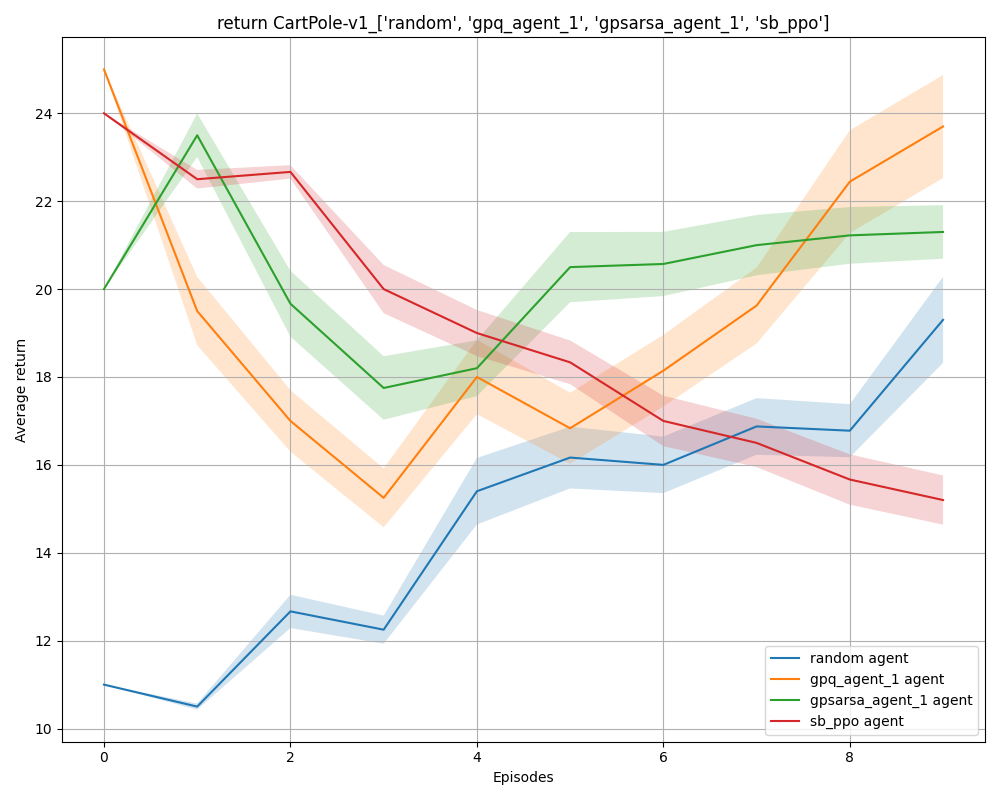
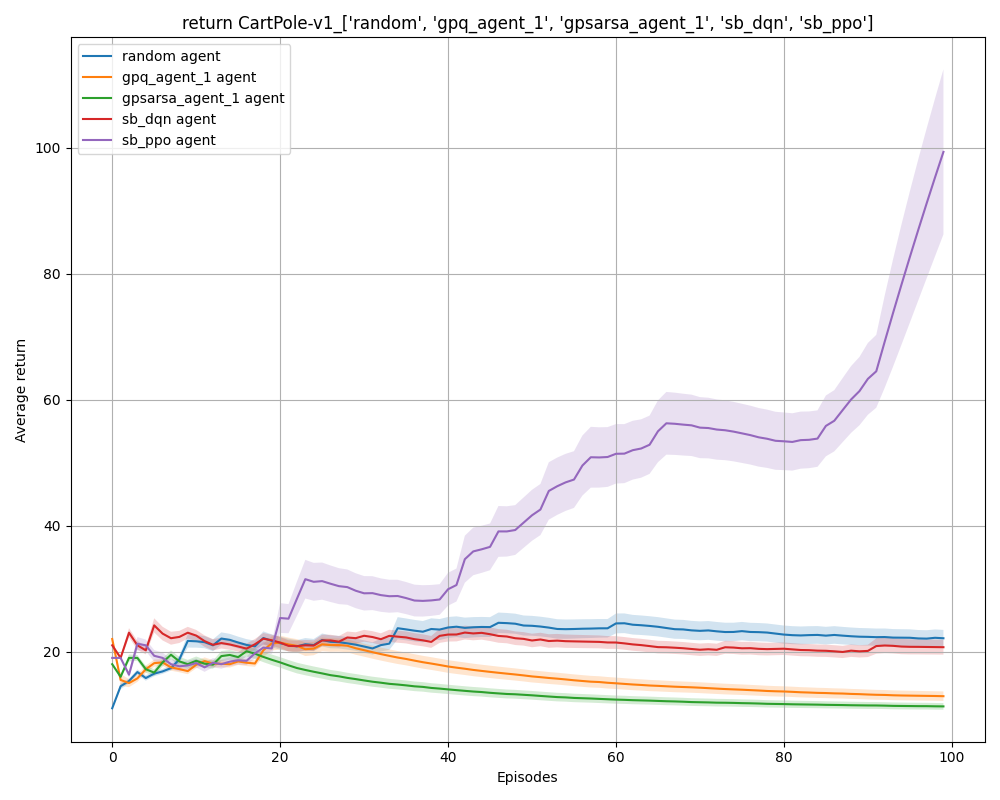
added support for rff kernel and specifying alternative kernels (note: customizability of kernel parameters if not fully supported yet)

diff --git a/models/src/gp/bayesianoptimizer_rl.py b/models/src/gp/bayesianoptimizer_rl.py
@@ -16,6 +16,7 @@ from botorch.models.transforms.outcome import Standardize
 from torch import optim
 
 from gp.abstractbayesianoptimizer_rl import AbstractBayesianOptimizerRL
+from kernels.kernelfactory import create_kernel
 from util.fetchdevice import fetch_device
 import gymnasium as gym
 
@@ -113,6 +114,8 @@ class BayesianOptimizerRL(AbstractBayesianOptimizerRL):
                  max_dataset_size: int,
                  state_size: int,
                  action_space: gym.Space,
+                 kernel_type,
+                 kernel_args,
                  strategy='thompson_sampling',
                  sparsfication_treshold=None):
         self.device = fetch_device()
@@ -122,11 +125,13 @@ class BayesianOptimizerRL(AbstractBayesianOptimizerRL):
         self._action_size = action_space.n
         self._action_space = action_space
 
-        self._input_transform = None  # InputStandardize(d=state_size + 1)
+        self._input_transform = None # Normalize(d=state_size + 1) # InputStandardize(d=state_size + 1)
         self._outcome_transform = Standardize(m=1)  # I am guessing m should be 1
         # This Standardization is VERY important as we assume the mean function is 0.
         # If not then we will have problems with the Q values.
         self._sparsification_treshold = sparsfication_treshold
+
+        self._kernel_factory = create_kernel(kernel_type, kernel_args)
 
         if model_str == 'exact_gp':
             # TODO: Look into variant where we do not instantiate a new GP
@@ -141,8 +146,11 @@ class BayesianOptimizerRL(AbstractBayesianOptimizerRL):
         self._current_gp = self.gp_constructor(train_X=torch.zeros(1, state_size + 1, dtype=torch.double),
                                                train_Y=torch.zeros(1, 1, dtype=torch.double),
                                                cat_dims=[self._state_size],
+                                               cont_kernel_factory=self._kernel_factory,
                                                input_transform=self._input_transform,
                                                outcome_transform=self._outcome_transform).to(self.device)
+
+        print(self._current_gp.covar_module)
 
         self._random_draws = random_draws
 

diff --git a/models/src/kernels/kernelfactory.py b/models/src/kernels/kernelfactory.py
@@ -1,0 +1,40 @@
+from gpytorch.kernels import Kernel, RFFKernel, MaternKernel, RBFKernel
+import torch
+from typing import Any, Callable, Dict, List, Optional
+
+
+class RFFKernelAdapter:
+    """
+    Problem with MixedSigleTaskGP is that it strictly allows kernels to only specify
+    the batch_shape, ard_num_dims and lengthscale contraint.
+    """
+    num_samples = 1024
+
+    @staticmethod
+    def create_kernel(batch_shape: torch.Size, ard_num_dims: int, active_dims: List[int]) -> RFFKernel:
+        return RFFKernel(
+            num_samples=RFFKernelAdapter.num_samples,
+            batch_shape=batch_shape,
+            ard_num_dims=ard_num_dims,
+            active_dims=active_dims
+        )
+
+
+def create_kernel(kernel_name: str, cfg):
+    """
+    Not returns the constructor of the kernel not the kernel itself.
+    MixedSingleTaskGP should already put a ScaleKernel on the kernel.
+    :param kernel_name:
+    :param cfg:
+    :return:
+    """
+    if kernel_name == "matern":
+        return MaternKernel
+    elif kernel_name == "rbf":
+        return RBFKernel
+    elif kernel_name == "rff":
+        RFFKernelAdapter.num_samples = cfg.rff_kernel.num_samples
+        return RFFKernelAdapter.create_kernel
+
+    return None
+

diff --git a/agents/src/agentfactory/agentfactory.py b/agents/src/agentfactory/agentfactory.py
@@ -116,6 +116,8 @@ class AgentFactory:
                 replay_buffer_size=cfg.model.replay_buffer_size,
                 exploring_starts=cfg.model.exploring_starts,
                 max_dataset_size=cfg.model.max_dataset_size,
+                kernel_type=cfg.model.kernel_type,
+                kernel_args=cfg.model.kernel,
                 sparsification_threshold=eval(cfg.model.sparsification_threshold)
             )
         elif agent_type == "gpsarsa_agent":
@@ -127,6 +129,8 @@ class AgentFactory:
                 replay_buffer_size=cfg.model.replay_buffer_size,
                 exploring_starts=cfg.model.exploring_starts,
                 max_dataset_size=cfg.model.max_dataset_size,
+                kernel_type=cfg.model.kernel_type,
+                kernel_args=cfg.model.kernel,
                 sparsification_threshold=eval(cfg.model.sparsification_threshold)
             )
         elif agent_type == "sb_dqn":

diff --git a/agents/src/agent/gpqagent.py b/agents/src/agent/gpqagent.py
@@ -19,6 +19,8 @@ class GPQAgent(AbstractAgent):
                  replay_buffer_size: int,       # batch_size == replay_buffer_size
                  exploring_starts: int,
                  max_dataset_size: int,
+                 kernel_type: str,
+                 kernel_args,
                  sparsification_threshold=None):
         super(GPQAgent, self).__init__({}, env.observation_space, env.action_space)
 
@@ -30,6 +32,8 @@ class GPQAgent(AbstractAgent):
             random_draws=exploring_starts,
             state_size=env.observation_space.shape[0],
             action_space=env.action_space,
+            kernel_type=kernel_type,
+            kernel_args=kernel_args,
             sparsfication_treshold=sparsification_threshold
         )
 

diff --git a/agents/src/agent/gpsarsaagent.py b/agents/src/agent/gpsarsaagent.py
@@ -26,6 +26,8 @@ class GPSarsaAgent(AbstractAgent):
                  replay_buffer_size,
                  exploring_starts,
                  max_dataset_size,
+                 kernel_type: str,
+                 kernel_args,
                  sparsification_threshold=None):
         super(GPSarsaAgent, self).__init__({}, env.observation_space, env.action_space)
 
@@ -37,6 +39,8 @@ class GPSarsaAgent(AbstractAgent):
             random_draws=exploring_starts,
             state_size=env.observation_space.shape[0],
             action_space=env.action_space,
+            kernel_type=kernel_type,
+            kernel_args=kernel_args,
             sparsfication_treshold=sparsification_threshold
         )
 

diff --git a/bachelorproject/main.py b/bachelorproject/main.py
@@ -12,9 +12,9 @@ if __name__ == "__main__":
     (sim
      .register_agent("gpq_agent_1", "gpq_agent")
      .register_agent("gpsarsa_agent_1", "gpsarsa_agent")
-     # .register_agent("sb_dqn", "sb_dqn")
+      .register_agent("sb_dqn", "sb_dqn")
      .register_agent("sb_ppo", "sb_ppo")
-     .train_agents(num_episodes=10, concurrent=False, logging=True,
+     .train_agents(num_episodes=100, concurrent=False, logging=True,
                    callbacks=[RewardCallback(), UsageCallback()])
      .evaluate_agents("CartPole-v1", 10,
                       callbacks=[RewardCallback(), UsageCallback()])
